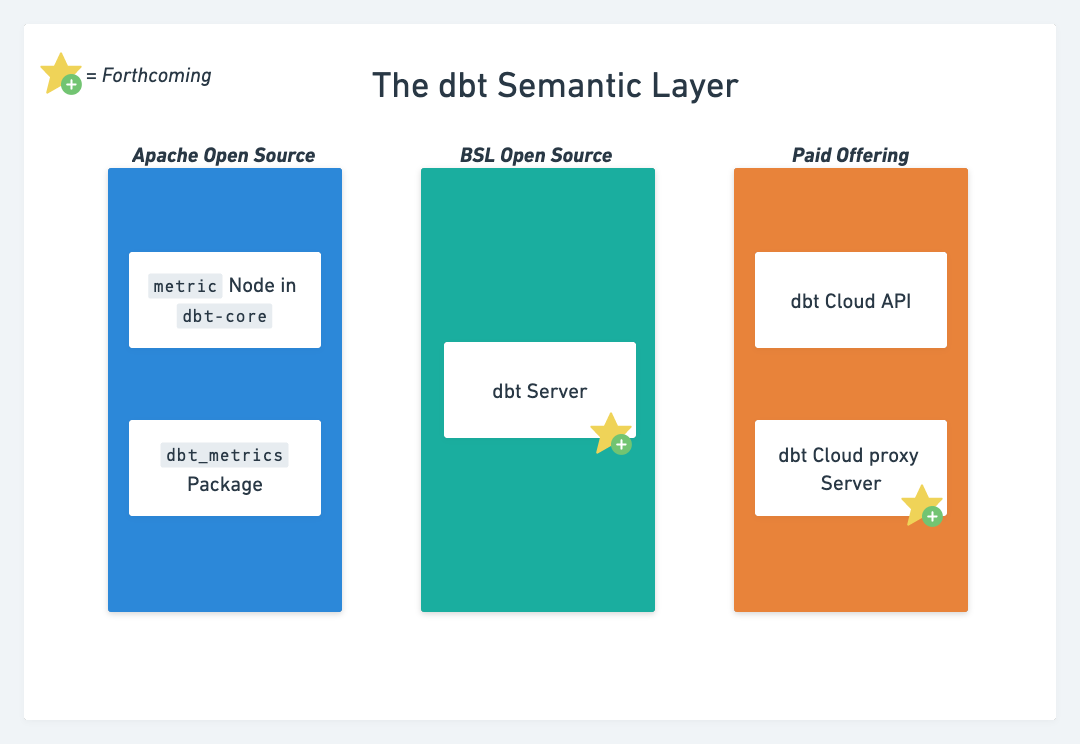
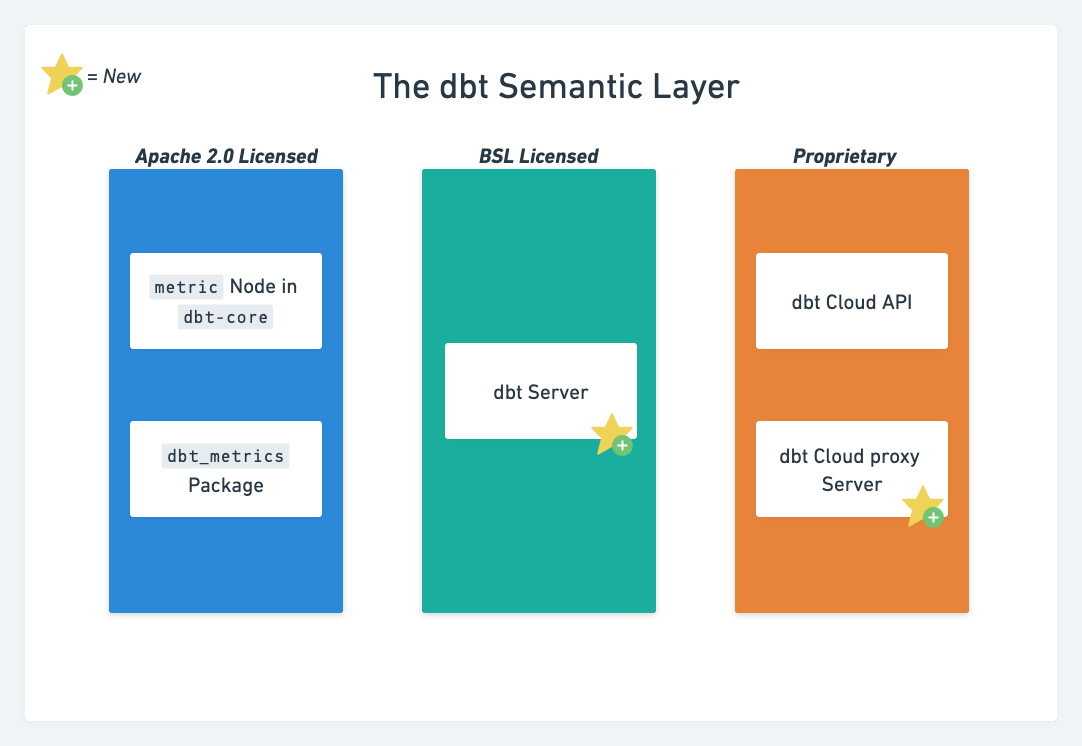
fixes and updates

diff --git a/website/blog/2022-07-27-getting-started-with-the-dbt-semantic-layer.md b/website/blog/2022-07-27-getting-started-with-the-dbt-semantic-layer.md
@@ -1,6 +1,6 @@
 ---
-title: "Getting Started With The dbt Semantic Layer"
-description: "There's been a lot of discussion around dbt Metrics and what they are. Callum Mccann clarifies what the Semantic Layer is, what is available today, and how one can already begin to use parts of it!"
+title: "Getting started with the dbt Semantic Layer"
+description: "Heard about dbt Metrics or the dbt Semantic Layer and curious to give them a try? Callum McCann digs into what they are, walks through an example, and discusses how they all fit together!"
 slug: getting-started-with-the-dbt-semantic-layer
 
 authors: [callum_mccann]
@@ -12,14 +12,13 @@ date: 2022-07-27
 is_featured: true
 ---
 
-# Getting Started With The dbt Semantic Layer
+# Getting started with the dbt Semantic Layer
 
-> TLDR: The Semantic Layer is made up of a combination of open-source and SaaS offerings and is going to change how you consume and define metrics.
+> TLDR: The Semantic Layer is made up of a combination of open-source and SaaS offerings and is going to change how your team defines and consumes metrics.
 
+In recent months, we’ve seen a lot of excitement in the community around what the dbt Semantic Layer is. To those who aren’t following this saga with the intensity of [someone watching their investments on the crypto market](https://mobile.twitter.com/scannergr1/status/1536198701215109122/photo/1), we're rolling out this new resource to help you better understand the dbt Semantic Layer and provide clarification on the following things:
 
-In recent months, we’ve seen a lot of excitement (and some understandable confusion) in the community around what the dbt Semantic Layer is. This is completely understandable, as elements of this “layer” are currently available while others aren’t. To those who aren’t following this saga with the intensity of [someone watching their investments on the crypto market](https://mobile.twitter.com/scannergr1/status/1536198701215109122/photo/1), we hope this blog can provide clarification on the following things:
-
-1. What is the dbt semantic layer?
+1. What is the dbt Semantic Layer?
 2. How do I use it?
 3. What is publicly available now?
 4. What is still in development?
@@ -28,44 +27,52 @@ With that, lets get into it!
 
 <!--truncate-->
 
-> Some of you might be confused - you’ve seen us talk about the Metrics Layer in the past and now we’re talking about the Semantic Layer. Well, what was previously called the Metrics Layer has been re-branded to the “Semantic Layer” in order to better reflect our long term plans. Today’s functionality focus largely on metrics but tomorrow’s will expand to be a programmatic interface to the DAG, to better understand entities and what models represent, and much more. Drew’s post about the future of the Semantic Layer explains this far better.
+> Some of you might have been around when this was initially being referred to as the Metrics Layer. As we evaluated the long term plans for what this part of dbt was going to become, we realized that naming it the Semantic Layer better reflected its capabilities and where we plan on taking it. 
 
 ## What is the dbt Semantic Layer?
 
-The dbt semantic layer is a combination of several components - some of these are part of `dbt-core`, some part of `dbt Cloud` (our SaaS offering), and some are net new functionality. They all [combine together like Voltron](https://www.youtube.com/watch?v=5rPSLQxMT8w) to create a single experience through which business users can query data in a context that is familiar to them — metrics. And the best part is that they can do it in systems they are already comfortable using.
+The dbt Semantic Layer is a new part of dbt to help improve precision and consistency while expanding flexibility and capability in the modern data stack. Our maestro of metrics, Drew Banin, released a blog post detailing the vision of where we're going. The first use case that we are addressing is one that most practicioners **and** stakeholders are familiar with - metrics. We'll walk through what this looks like in practice later on in this post.
+
+Under the hood, the dbt Semantic layer is collection of several components - some of these are part of dbt Core, some part of dbt Cloud, and some are net new functionality. They all [combine together like Voltron](https://www.youtube.com/watch?v=5rPSLQxMT8w) to create a single experience through which business users can query data in the context of the metric that is most familiar to them. And the best part is that they can do it in systems they are already comfortable using.
 
 ***What will this look like for my data consumers and business stakeholders?*** 
 
 Ultimately, this looks like people being able to interact with trusted datasets in the tools that they are comfortable with (and eventually new tools designed specifically around metrics). 
 
-An example that we’ve found helpful is [ARR](https://www.zuora.com/billing-topics/annual-recurring-revenue/#:~:text=Annual%20Recurring%20Revenue%2C%20or%20ARR,for%20a%20single%20calendar%20year). A business-critical metric to SaaS companies, ARR can be a tricky calculation to keep consistent across all of the tools used in the business. With the semantic layer, this definition would live in dbt and the logic to create the dataset for that metric would be consistent across all different consuming experiences. Best of all, definition changes would get reflected in downstream tools, so you no longer need to manually search and update every downstream dependency. Callum of 3 years ago is jumping with joy.
+An example that we’ve found helpful is [ARR](https://www.zuora.com/billing-topics/annual-recurring-revenue/#:~:text=Annual%20Recurring%20Revenue%2C%20or%20ARR,for%20a%20single%20calendar%20year). A business-critical metric to SaaS companies, ARR can be a tricky calculation to keep consistent across all of the tools used in the business. With the dbt Semantic Layer, this definition would live in dbt and the logic to create the dataset for that metric would be consistent across all different consuming experiences. Best of all, definition changes would get reflected in downstream tools, so you no longer need to manually search and update every downstream dependency. Callum of 3 years ago is jumping with joy.
 
 ***That’s good and all, but what does this look like for practitioners to use?*** 
 
-We’re building it with the following components[^1]:
+The dbt Semantic layer is comprised of the following components[^1]:
 
 **Available Today**
 
-- `**[metric` node in `dbt-core` :](https://docs.getdbt.com/docs/building-a-dbt-project/metrics)** Similar to `models` or `sources` , this is a specific node type in `dbt-core`. It is the definition of a time-series aggregation over a table that supports 0+ dimensions. The resulting metadata is stored in the `manifest` just like `models` and referenced in the DAG.
-- `**[dbt_metrics` package:](https://github.com/dbt-labs/dbt_metrics)** this package provides macros that take in metric information regarding the `metrics` defined by users and then produces the necessary SQL to return the dataset containing that metric along with any other parameters defined (secondary calculations, specific dimensions, time grain, etc).
+- **[`metric` node in dbt Core :](https://docs.getdbt.com/docs/building-a-dbt-project/metrics)** Similar to `models` or `sources` , this is a specific node type in dbt Core. It is the definition of a time-series aggregation over a table that supports zero or more dimensions. The resulting node is stored in the `manifest.json` just like `models` and referenced in the DAG.
+- **[`dbt_metrics` package:](https://github.com/dbt-labs/dbt_metrics)** this package provides macros that combine the version-controlled metric definition and query-time parameters (like dimensions, a time grain, and secondary calculations) to generate a SQL query which calculates the metric value.
 - **[dbt Cloud Metadata API](https://docs.getdbt.com/docs/dbt-cloud/dbt-cloud-api/metadata/metadata-overview):** a GraphQL API which supports arbitrary queries over the metadata produced by dbt Cloud jobs. Contains metadata related to the accuracy, recency, configuration, and structure of the views and tables in the warehouse, as well as much more.
 
-**Forthcoming**
+**New**
 
 - **dbt Server:** this component wraps dbt Core in a persistent server that is responsible for handling RESTful API requests for dbt operations. It’s a thin interface that is primarily responsible for performance and reliability in production environments.
-- **dbt Cloud proxy server:** this component enables dbt Cloud to intercept requests to a database and compile dbt-SQL into raw SQL that the database understands. It then returns the dataset produced by the raw SQL to the platform that sent it.
+- **dbt Cloud proxy server:** this component enables dbt Cloud to dynamically rewrite requests to a data warehouse and compile dbt-SQL into raw SQL that the database understands. It then returns the dataset produced by the raw SQL to the platform that sent it. 
 
 ![Untitled](/img/blog/2022-07-27-getting-started-with-the-dbt-semantic-layer/semantic-layer-description.png)
 
 ### Understanding how and when to use metrics?
 
-Let’s walk through a jaffle shop example of how you can use the components listed above to get started with the semantic layer today, as well as what it might look like once the forthcoming components are released.
+Let's walk through an example of how you can use the components above to get started today using our old friend - [the Jaffle Shop](https://github.com/dbt-labs/jaffle_shop_metrics). We'll take a look at how you can start defining and testing metrics today as well as how you'll interact with them once the new components are released.
 
-Say your CFO comes to you on a Monday morning and commands the data team to overhaul how the company is reporting on Revenue. Right now its a mess of tools and inconsistencies - Jim’s numbers are defined in Tableau and say one thing, Pam’s within Hex and say another! The CFO is frustrated with it and wants a cohesive experience across the company where everyone has the same numbers for revenue. 
+**When to use Metrics**
+
+The first question you need to ask is, *Should we be using metrics?* 
+
+It is our belief that metrics are not a one-size fits all solution. They are designed for core business metrics where consistency and precision are of key importance, not for exploratory use cases or ad hoc analysis. Our shorthand way of determining whether the metric should be defined in dbt has been - *is this something our teams need to report on?*
+
+So, let’s say the CFO of our Jaffle comes to us on a Monday morning and commands the data team to overhaul how we're reporting on Revenue. Our regional manager Jim and Sales Director Pam[^3] have been giving him different reports! Right now its a mess of tools and inconsistencies - Jim’s numbers are defined in Tableau and say one thing, Pam’s within Hex and say another! The CFO is frustrated with it and wants a cohesive experience across the company where everyone has the same numbers for revenue. It passes the report test, it’s an important business metric; away we go!
 
 **Defining the Metric with Metric Node**
 
-In this example, we’ll say that both Jim and Pam are pulling from a table created by dbt called `orders`. It currently contains fields for `amount` and all `payment_amounts`. Jim has been calculating revenue by summing up the `credit_card_amount` and `gift_card_amount` fields, as he forgot to update his definition when the business added coupons and bank transfers payments. Meanwhile, Pam is correctly summing the `amount` field but hasn’t accounted for return orders that shouldn’t be counted!
+In this example, we’ll say that both Jim and Pam are pulling from a table created by dbt called `orders`. It currently contains fields for `amount` and all different methods of payment_amounts, such as credit cards or gift cards.  Jim has been calculating revenue by summing up the `credit_card_amount` and `gift_card_amount` fields, as he forgot to update his definition when the business added coupons and bank transfers payments. Meanwhile, Pam is correctly summing the `amount` field but hasn’t accounted for return orders that shouldn’t be counted!
 
 The first step is creating a unified definition for what revenue is. In order to do this, we will create the following yml definition within our dbt repo: 
 
@@ -101,26 +108,21 @@ This metric has now been defined in the dbt metadata and can be seen in the DAG!
 
 ![Untitled](/img/blog/2022-07-27-getting-started-with-the-dbt-semantic-layer/metrics-dag.png)
 
-**Running The Metric Package To Calculate the Metric**
+**Running The Metric Package To calculate the metric**
 
-> ❗ In the future, this is where Jim and Pam would directly query the proxy server to obtain the metric data (aka revenue). We will now cover what you can do with metrics today.
-
-In order to ensure that both Jim and Pam are pulling from the same dataset with the same definition, we’ll want to create a model that materializes this metric for them - this ensures that they’ll always get the same answer for ARR.
-
-Creating a new model called `revenue.sql` , we’ll enter the following macro to call the metrics package. In this example, we’re not interested in the specific payment types and only want to see revenue broken up by `week`and `customer_status`. 
+In order to ensure that both Jim and Pam are retrieving the same numbers for their metric, we’ll need them to both run a metrics `calculate` query. In this example, we’re not interested in the specific payment types and only want to see revenue broken up by `week` and `customer_status`.
 
 ```sql
 select * 
-from {{ metrics.metric(
-    metric_name='revenue',
+from {{ metrics.calculate(
+    metric('revenue'),
     grain='week',
     dimensions=['customer_status']
 ) }}
 ```
-
 This would return a dataset that looks like this:
 
-| period | customer_status | revenue |
+| date_week | customer_status | revenue |
 | --- | --- | --- |
 | 2018-01-01 | Churn Risk | 43 |
 | 2018-01-01 | Churned | 0 |
@@ -129,24 +131,22 @@ This would return a dataset that looks like this:
 
 Jim and Pam would then be able to reference the `revenue` column within the newly created dataset and never have to worry about the calculation of revenue ever again[^2]! The world is perfect and [balance has been restored.](https://www.youtube.com/watch?v=d1EnW4kn1kg) 
 
-**In the near Future with dbt Server and dbt Cloud proxy Server**
+**In the near Future with dbt Server**
 
-When dbt Server and the dbt Cloud proxy Server release later this year, the flow of how metrics are consumed will change significantly. Your organization will no longer need to materialize each metric within a model in order to take advantage of the metric definition. Instead, you’ll be able to directly query the proxy server with the metric code provided and have the correct dataset returned to your BI tool of choice. 
+When dbt Server releases later this year, the flow of how metrics are consumed will change significantly. Your organization will no longer need to materialize each metric within a model in order to take advantage of the metric definition. Instead, you’ll be able to directly query dbt Server with the metric code provided and have the correct dataset returned to your BI tool of choice. 
 
 Additionally, integration partners will have built out experiences around Metrics using the Metadata API to create unique and creative ways for consumers to obtain metric data while abstracting away complexity. For example, a box that allows the user to select from a list of metrics, time grains, dimensions, and secondary calculation and then have the correct information returned to them regardless of the selection!
 
-This is an exciting future where data can be consumed in the context of how most people think about it - **metrics.**
-
 ### So what is publicly available now?
 
-Right now, the two main open-source components that are publicly available are the `metric` node within `dbt-core` and the `dbt_metrics` package. Combined, these two can operate a simplistic semantic layer experience by allowing analytics engineers to define metrics and then use that metric with the package to materialize a table that contains the value for that metric on the defined date range. 
+Right now, the two main open-source components that are publicly available are the [`metric` node](https://docs.getdbt.com/docs/building-a-dbt-project/metrics) within dbt Core and the `dbt_metrics` package. Combined, these two can operate an introductory semantic layer experience by allowing analytics engineers to define metrics and then query that metric via the metrics package. 
 
-It is limited in dimension flexibility (as the selected dimensions have to be defined at model creation) but is useful for those who want to ensure that metrics remain consistent across every BI tool. If you identify with any of the following conditions, you could be a good fit for implementing this as it exists today:
+These two components are a static experience that have to be defined in the dbt project (as the selected dimensions are defined at model creation) but are useful for those who want to ensure that metrics remain consistent across every BI tool. If you identify with any of the following conditions, you could be a good fit for implementing this as it exists today:
 
+- You want to prepare your organization for the full Semantic Layer launch.
 - Your organization has at least a few key metrics
 - Your organization uses 1 or more BI tools
 - Your organization occasionally has issues around different metric calculations
-- You want to set your organization up for the dbt proxy server.
 - Your organization wants a centralized location for all metrics so everyone in the business knows where to look
 
 All of these are great reasons to begin exploring implementing metrics in your dbt project! If you’re curious about what an implementation of this might look like, we recommend referencing the [jaffle_shop_metrics](https://github.com/dbt-labs/jaffle_shop_metrics) repo!
@@ -157,9 +157,11 @@ Both the dbt Cloud proxy server and dbt Server are currently in development, wit
 
 ### What if I have questions?
 
-If you have any questions about those components, or metrics in general, please feel free to post in the #dbt-metrics-and-server channel on dbt Slack! The author of this post hangs around there and is always willing to chat metrics!
+If you have any questions about those components, or metrics in general, please feel free to post in the #dbt-metrics-and-server channel on dbt Slack! I hang around there and am always willing to chat metrics!
 
 ### Footnotes
-[^1]: We’re specifically calling out the licensing because there is a lot of confusion in the community around what is open-source and what isn’t. This is only becoming trickier with the introduction of the BSL licensing, which ensures users can run their own server but it cannot be sold as a cloud service. For more information on why these licensing types were picked, we recommend [Tristan’s blog around licensing dbt.](https://www.getdbt.com/blog/licensing-dbt/). The big takeaway around licensing is that you can still run components of the semantic layer even if you aren’t a dbt Cloud customer! 
+[^1]: We’re specifically calling out the licensing because there is a lot of confusion in the community around what is open-source and what isn’t. This is only becoming trickier with the introduction of the BSL licensing, which ensures users can run their own server but it cannot be sold as a cloud service. For more information on why these licensing types were picked, we recommend [Tristan’s blog around licensing dbt.](https://www.getdbt.com/blog/licensing-dbt/). The big takeaway around licensing is that you can still run components of the dbt Semantic Layer even if you aren’t a dbt Cloud customer! 
 
 [^2]: Psych! They’re definitely interested in the calculation of ARR. In fact, they don’t really trust the numbers **unless** they understand how it’s calculated. This is where they could use the Metadata API in order to query all the information about the metric, such as definition, run-time, acceptable dimensions, etc. Right now Jim and Pam would need to query the API directly but in the future we expect there to be a number of different ways to obtain this information, ranging from [direct integration with the BI tool](https://hex.tech/integrations/dbt) all the way to having that information materialized in a dbt information schema! *For current tabular alternatives, there are some interesting macros in the newly released [dbt-project-evaluator package](https://github.com/dbt-labs/dbt-project-evaluator). Take a look there if you’re curious about materializing your metric information!*
+
+[^3] Full transparency, I've never seen the Office. The awkward humor makes me so uncomfortable that I have to turn off the TV. Apologies if the titles of the characters are incorrect.
